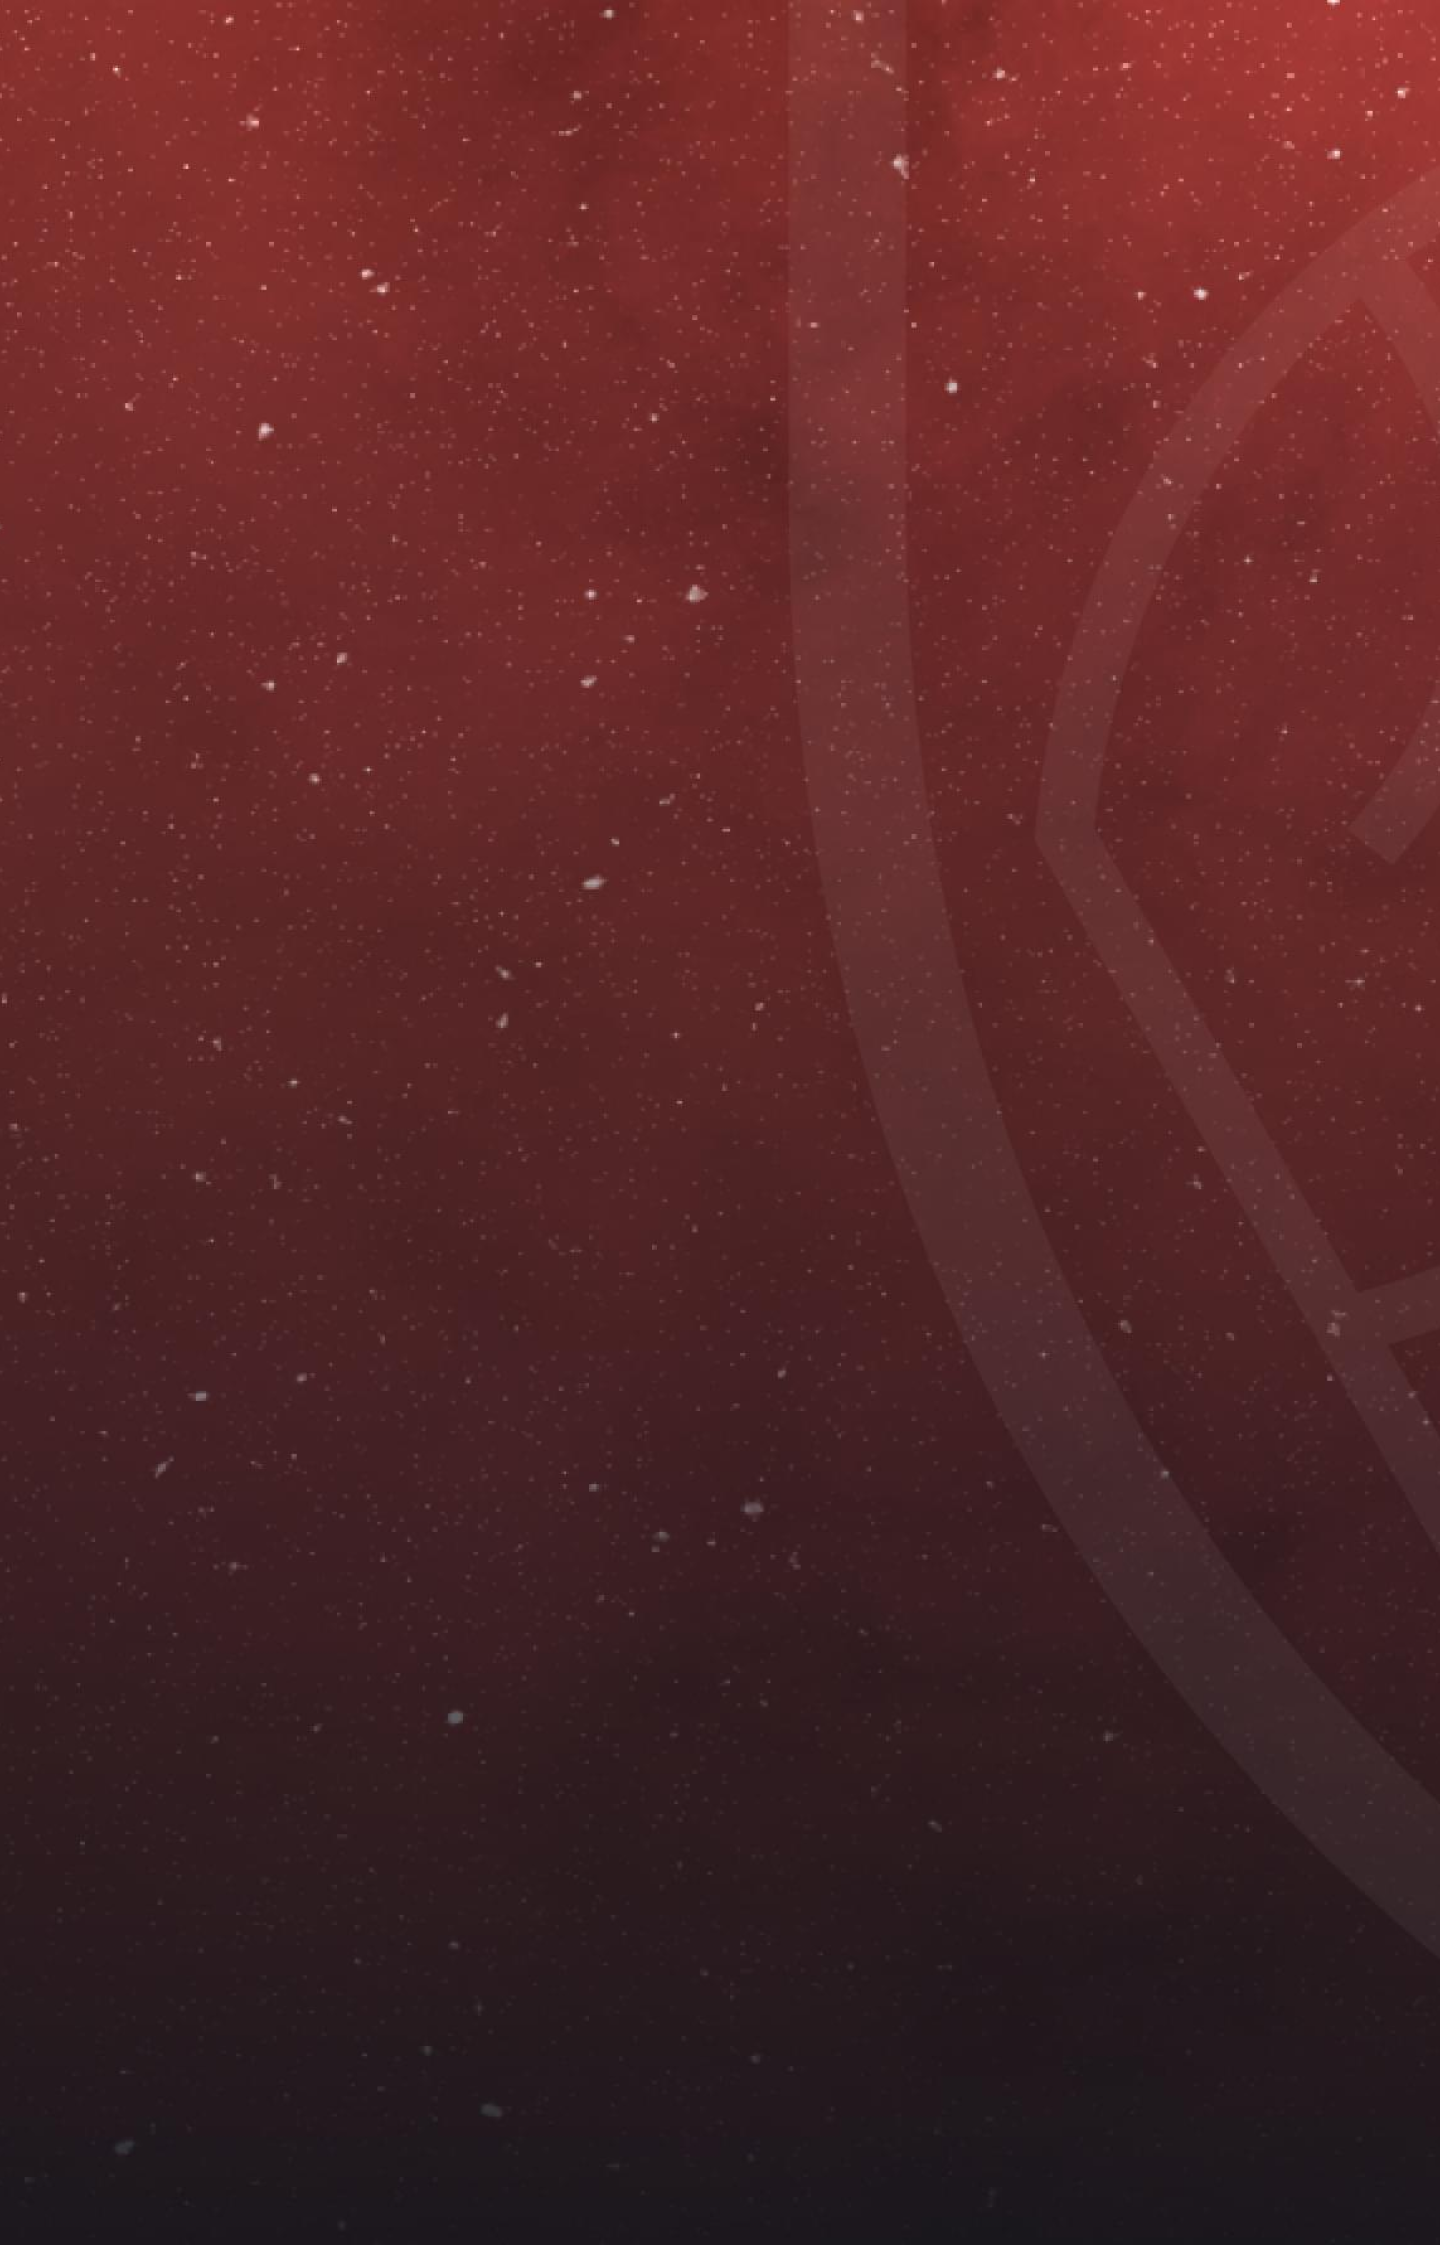
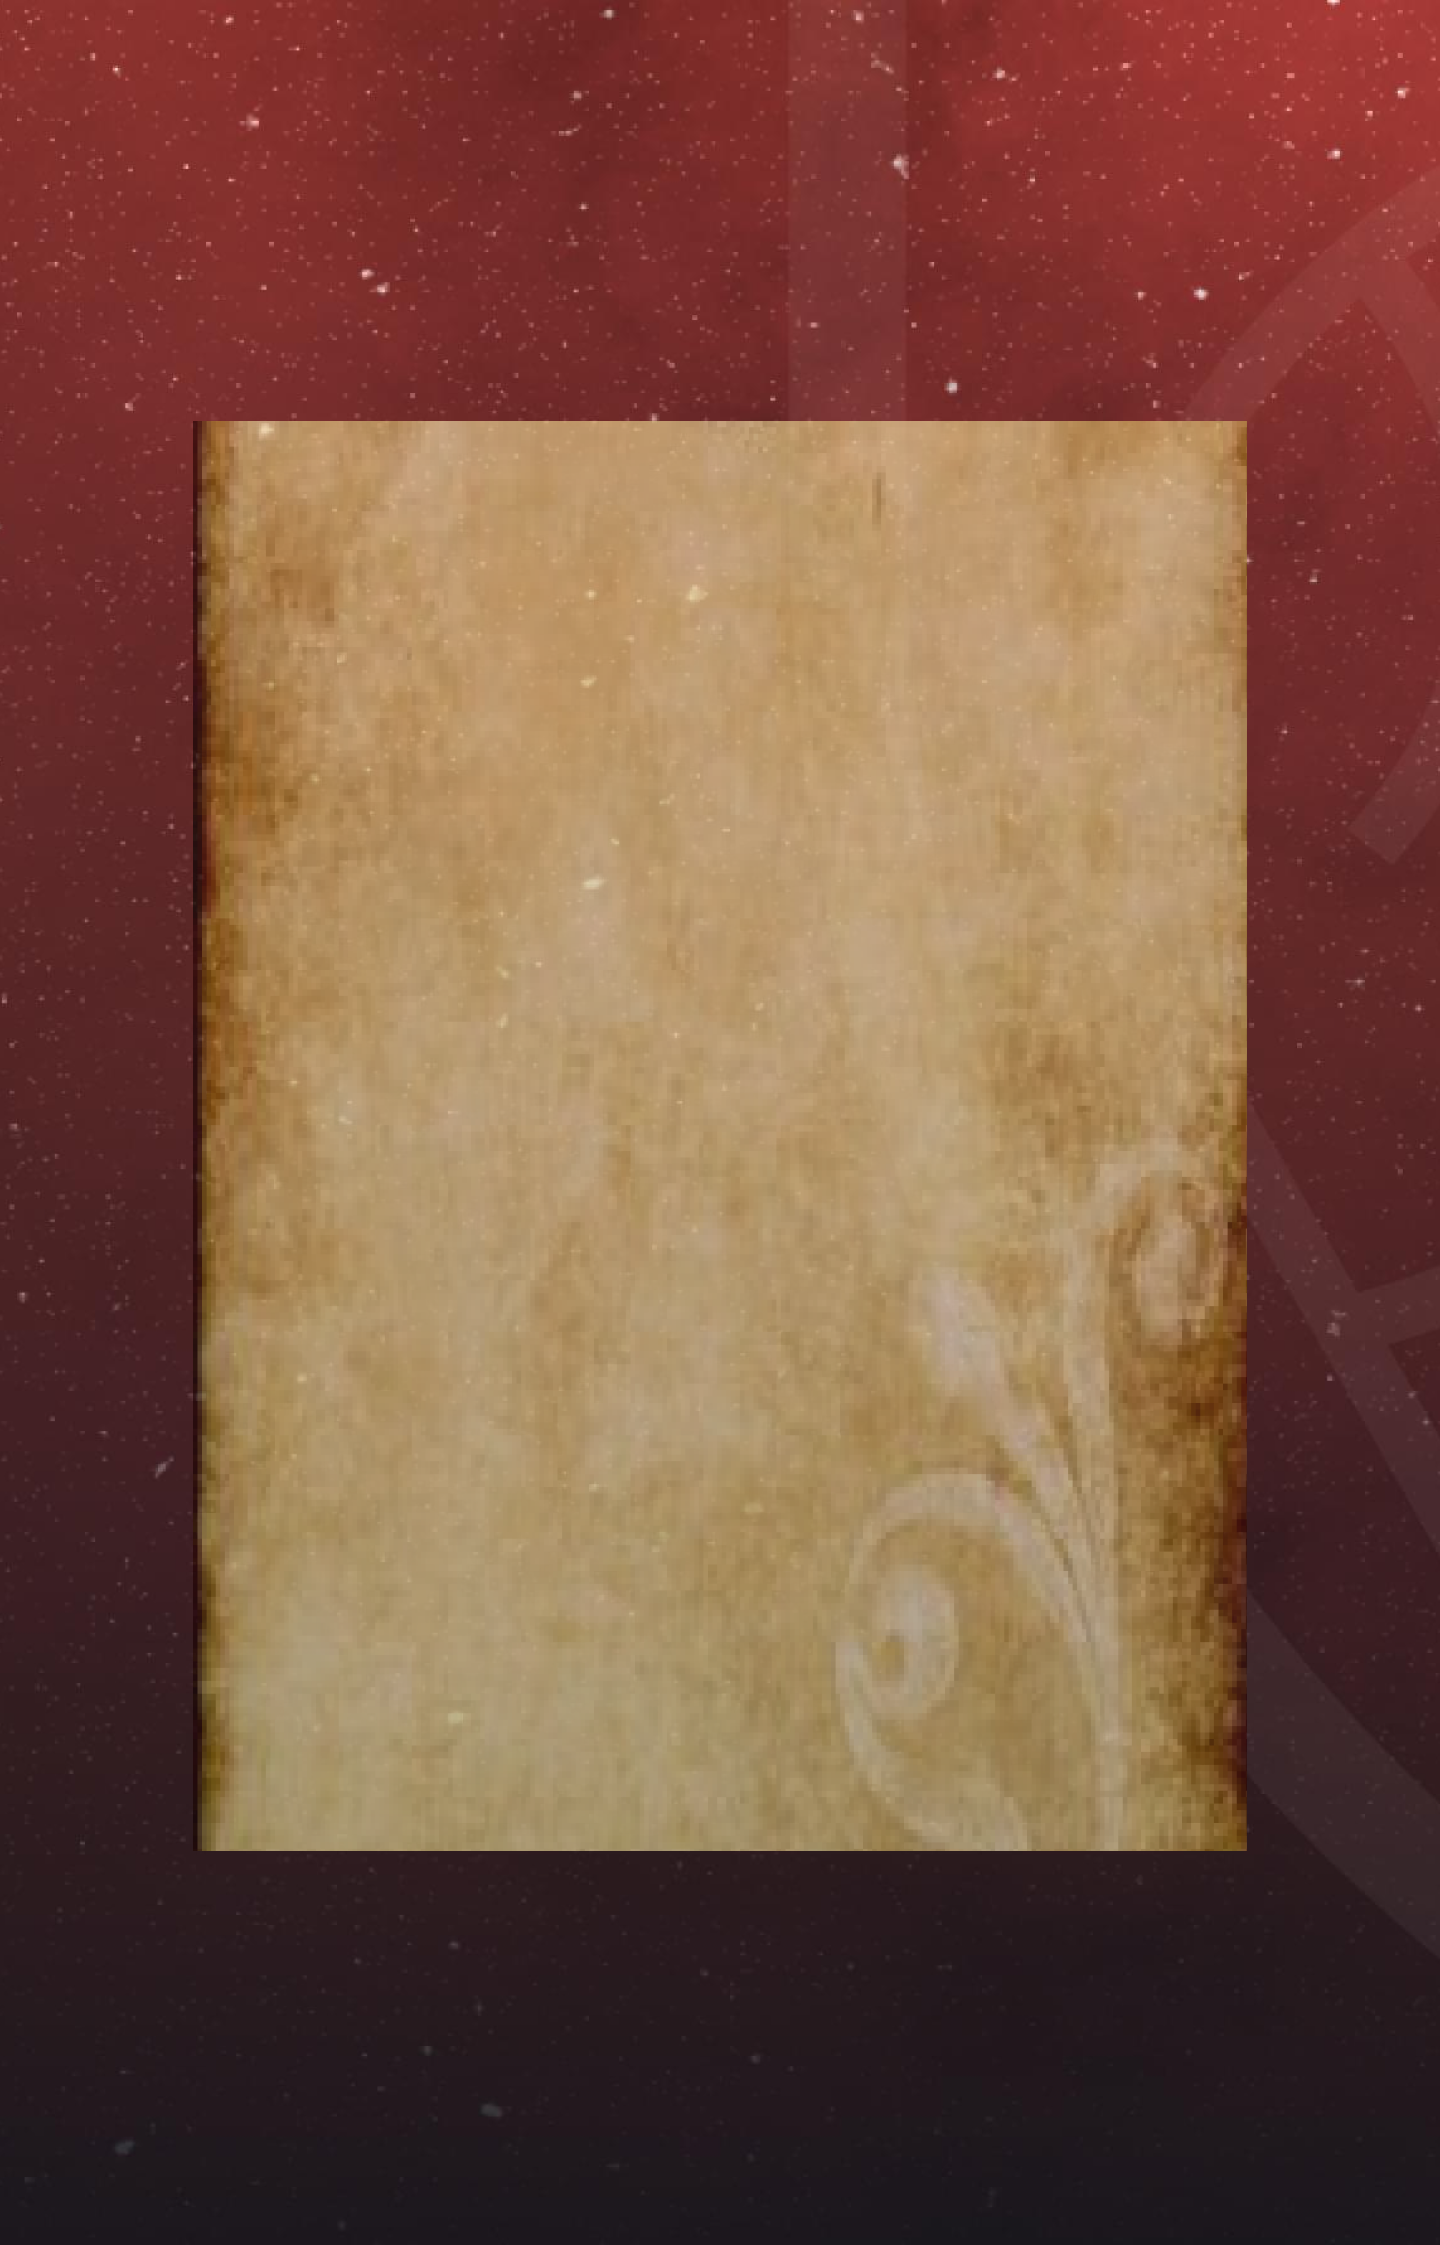
Avance historia 1

diff --git a/src/index.html b/src/index.html
@@ -4,13 +4,70 @@
     <meta charset="utf-8">
     <title>Data Lovers</title>
     <link rel="stylesheet" href="style.css" />
-    <meta name="viewport" content="width=device-width">
+    <meta name="viewport" content="width=device-width, initial-scale=1.0" >
+    <title>Harry Potter (data-lovers)</title>
   </head>
   <body>
     <img src="images/header.png">
-    <img src="images/body-grid-characters.png" alt="" >
-    <img src="images/footer.png">
-    <div id="root"></div>
-    <script src="main.js" type="module"></script>
+    <img src="images/warning.png" class="warning">
+    <!--<img src="images/body-grid-characters.png" class="body-red">-->
+    
+   <scroll-container>
+      <div id="container">
+       
+        <div><button><scroll-page id="name">name</scroll-page></button></div>
+        <div><button><scroll-page id="name">name</scroll-page></button></div>
+        <div><button><scroll-page id="name">name</scroll-page></button></div>
+        <div><button><scroll-page id="name">name</scroll-page></button></div>
+        <div><button><scroll-page id="name">name</scroll-page></button></div>
+        <div><button><scroll-page id="name">name</scroll-page></button></div>
+        <div><button><scroll-page id="name">name</scroll-page></button></div>
+        <div><button><scroll-page id="name">name</scroll-page></button></div>
+        <div><button><scroll-page id="name">name</scroll-page></button></div>
+        <div><button><scroll-page id="name">name</scroll-page></button></div>
+        <div><button><scroll-page id="name">name</scroll-page></button></div>
+        <div><button><scroll-page id="name">name</scroll-page></button></div>
+        <div><button><scroll-page id="name">name</scroll-page></button></div>
+        <div><button><scroll-page id="name">name</scroll-page></button></div>
+        <div><button><scroll-page id="name">name</scroll-page></button></div>
+        <div><button><scroll-page id="name">name</scroll-page></button></div>
+        <div><button><scroll-page id="name">name</scroll-page></button></div>
+        <div><button><scroll-page id="name">name</scroll-page></button></div>
+        <div><button><scroll-page id="name">name</scroll-page></button></div>
+        <div><button><scroll-page id="name">name</scroll-page></button></div>
+        <div><button><scroll-page id="name">name</scroll-page></button></div>
+        <div><button><scroll-page id="name">name</scroll-page></button></div>
+        <div><button><scroll-page id="name">name</scroll-page></button></div>
+        <div><button><scroll-page id="name">name</scroll-page></button></div>
+        <div><button><scroll-page id="name">name</scroll-page></button></div>
+        <div><button><scroll-page id="name">name</scroll-page></button></div>
+        <div><button><scroll-page id="name">name</scroll-page></button></div>
+        <div><button><scroll-page id="name">name</scroll-page></button></div>
+        <div><button><scroll-page id="name">name</scroll-page></button></div>
+        <div><button><scroll-page id="name">name</scroll-page></button></div>
+        <div><button><scroll-page id="name">name</scroll-page></button></div>
+        <div><button><scroll-page id="name">name</scroll-page></button></div>
+        <div><button><scroll-page id="name">name</scroll-page></button></div>
+        <div><button><scroll-page id="name">name</scroll-page></button></div>
+        <div><button><scroll-page id="name">name</scroll-page></button></div>
+        <div><button><scroll-page id="name">name</scroll-page></button></div>
+        <div><button><scroll-page id="name">name</scroll-page></button></div>
+        <div><button><scroll-page id="name">name</scroll-page></button></div>
+        <div><button><scroll-page id="name">name</scroll-page></button></div>
+        <div><button><scroll-page id="name">name</scroll-page></button></div>
+        <div><button><scroll-page id="name">name</scroll-page></button></div>
+        <div><button><scroll-page id="name">name</scroll-page></button></div>
+        <div><button><scroll-page id="name">name</scroll-page></button></div>
+        <div><button><scroll-page id="name">name</scroll-page></button></div>
+        <div><button><scroll-page id="name">name</scroll-page></button></div>
+        <div><button><scroll-page id="name">name</scroll-page></button></div>
+        <div><button><scroll-page id="name">name</scroll-page></button></div>
+        <div><button><scroll-page id="name">name</scroll-page></button></div>
+      </div>
+  </scroll-container>
+  <img src="images/body-grid-characters.png" class="body-red">
+  <div id="root"></div>
+    <img src="images/footer.png" class="footer">    
+    <script src="main.js" type="module" defer></script>
   </body>
 </html>

diff --git a/src/style.css b/src/style.css
@@ -2,8 +2,75 @@
     /* Aquí van todos los estilos CSS */
   }
 img {
-float:initial;
-width: 100%;
-display: inline-block;
-margin:0px;
+  width: 100%;
+  display: inline-block;
+  position: relative;
+  margin-bottom: 0px;
 }
+
+.warning {
+  position: absolute;
+  width: 28%;
+  margin-top: 60px;
+  left: 258px;
+  z-index: 2;
+  mix-blend-mode: darken;
+} 
+
+/*crea grid*/
+#container {
+ /* position: absolute;
+  display: inline-block;*/
+  display: grid;
+  grid: repeat(24, 170px) / auto-flow 170px;
+  z-index: 2;
+}
+
+/*caja de cada tarjeta*/
+#container > div {
+  /*position: absolute;*/
+  /*display: inline-block;*/
+  background-color: transparent;
+   width: 160px;
+  height: 160px;
+  z-index: 2;
+}
+
+scroll-container {
+  position: absolute;
+  /*display: inline-block;*/
+  top: 1200px;
+  width: 495px;
+  left: 500px;
+  height: 640px;
+  overflow-y: scroll;
+  scroll-behavior: smooth;
+  z-index: 2;
+}
+
+scroll-page {
+  /*position: absolute;*/
+  display: inline-block;
+  display: flex;
+  align-items: center;
+  justify-content: center;
+  height: 100%;
+  z-index: 2;
+  /*font-size: 5em;*/
+}
+
+.body-red {
+  position: relative;
+  width: 100%;
+  /*height: 200%;*/
+  z-index: 1;
+}
+
+.footer {
+  position: relative;
+  /*padding: 20px;*/
+  z-index: 2;
+}
+
+
+

diff --git a/src/main.js b/src/main.js
@@ -1,6 +1,13 @@
-import { example } from './data.js';
+import data from "./data/harrypotter/data.js";
+/*import { example } from './data.js';*/
 // import data from './data/lol/lol.js';
-import data from './data/pokemon/pokemon.js';
 // import data from './data/rickandmorty/rickandmorty.js';
 
-console.log(example, data);
+console.log(data, data);
+const showBiography = document.getElementById("name");
+
+showBiography.addEventListener('click', function() {
+    const name = document.getElementById('name').ariaValueText;
+
+    document.getElementById("name").innerHTML = (data.showBiography(name));
+})

diff --git a/src/data.js b/src/data.js
@@ -1,10 +1,12 @@
 // estas funciones son de ejemplo
 
-export const example = () => {
+/*export const example = () => {
   return 'example';
 };
 
 
 export const anotherExample = () => {
   return 'OMG';
-};
+};*/
+showBiography()
+export default showBiography;
